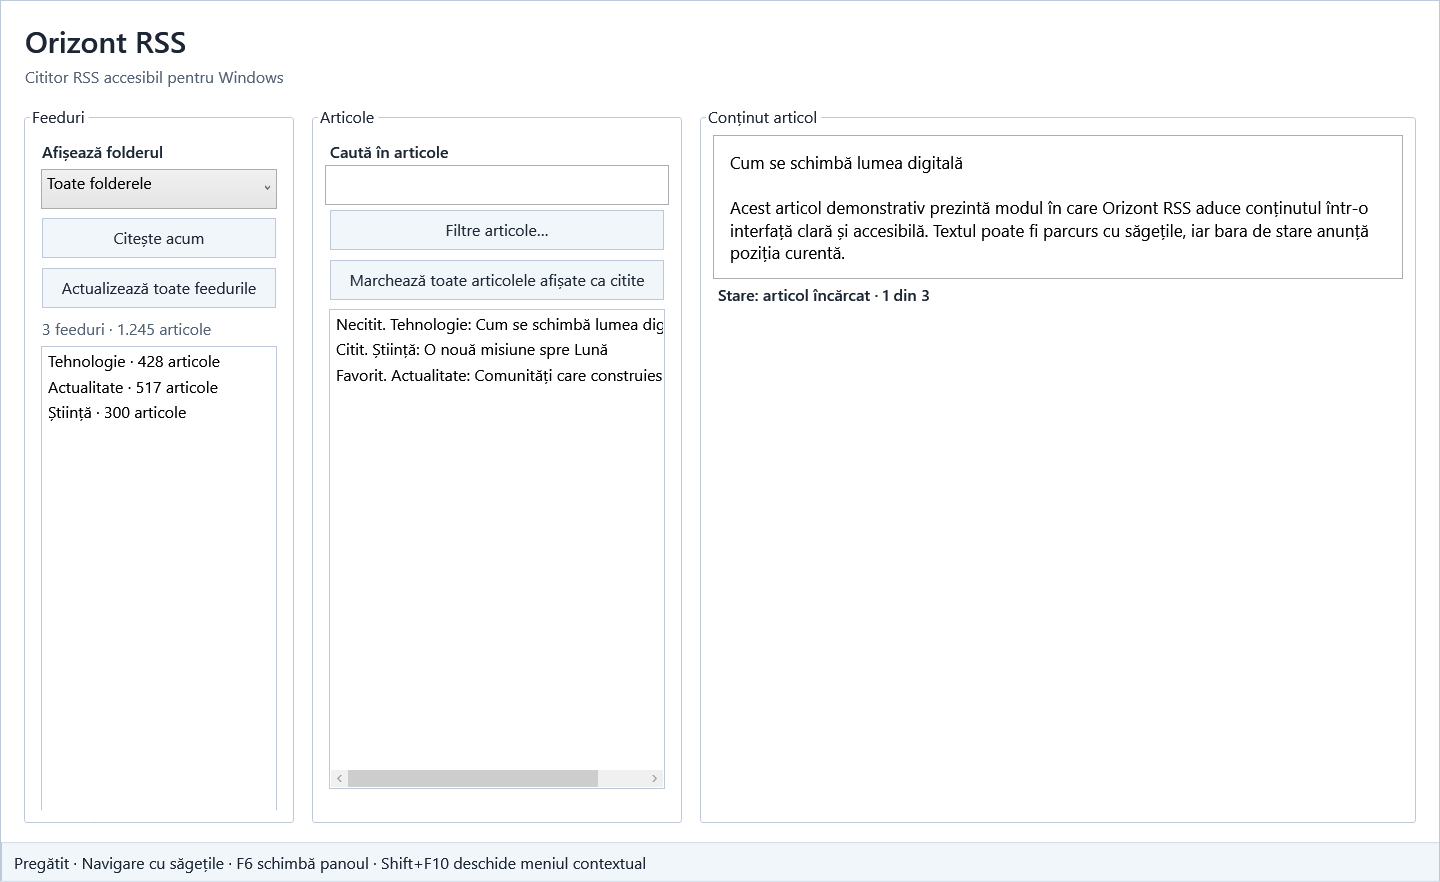
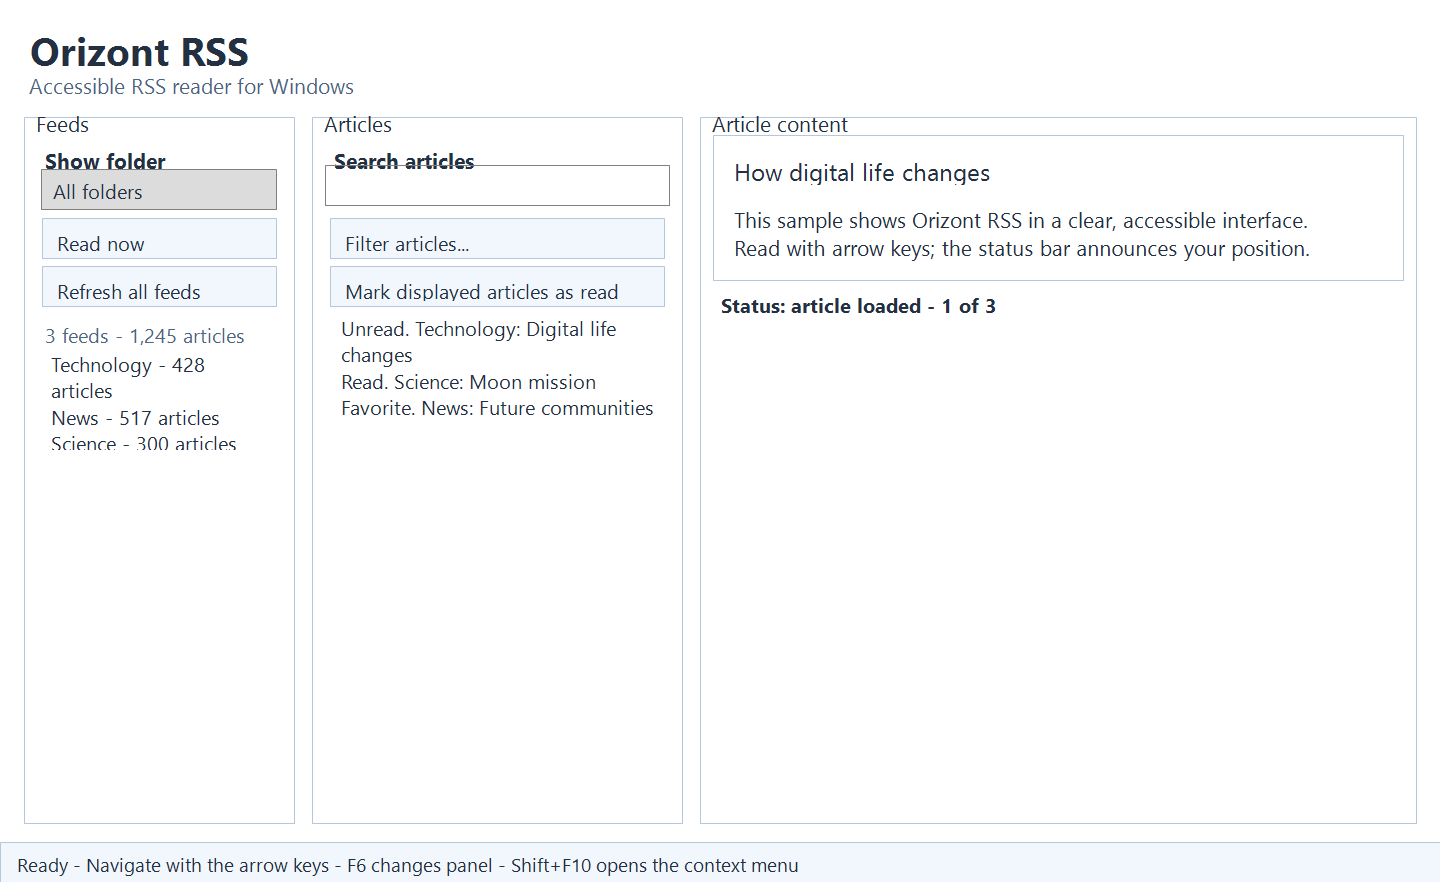
Use English promotional screenshots

diff --git a/WORKLOG.md b/WORKLOG.md
@@ -25,6 +25,14 @@ Acest jurnal păstrează trasabilitatea modificărilor efective din proiect. Se 
 - Verificări: toate cele opt pagini au câte un description, canonical, nouă hreflang, JSON-LD și opt metadate Open Graph; JSON-LD se parsează fără erori; sitemap-ul este XML valid; `git diff --check` fără erori.
 - Publicare: modificările sunt pregătite local; nu s-a făcut commit/push și nu s-a creat distribuție nouă.
 
+## 2026-09-09 — Capturi demonstrative în limba engleză
+
+- Scop: înlocuirea textului românesc din galeria publică cu o limbă internațională comună, conform aprobării utilizatorului.
+- Fișiere actualizate: `docs/assets/screenshots/main-window.png`, `reader.png`, `context-menu.png`, `settings.png`, `docs/assets/screenshots/README.md`, `docs/PROJECT-STATUS.md`, `docs/ROADMAP.md`.
+- Comportament vizual: cele patru previzualizări păstrează dimensiunea 1440×882 și structura WPF demonstrativă, dar afișează interfața, meniul contextual, cititorul și setările în engleză. Datele sunt fictive și nu includ profilul personal.
+- Verificări: imaginile au fost regenerate offline și inspectate vizual; textul românesc și caracterele afișate greșit au fost eliminate; utilitarul temporar de generare a fost șters după folosire.
+- Distribuție: nu s-a creat o distribuție nouă.
+
 ## 2026-09-08 — Commit și push GitHub pentru modificările publice
 
 - Scop: publicarea automată a modificărilor aprobate de utilizator.

diff --git a/docs/PROJECT-STATUS.md b/docs/PROJECT-STATUS.md
@@ -32,6 +32,7 @@ Acest document păstrează separat ceea ce este deja realizat, ceea ce este în 
 - Localizarea maghiară (`hu-HU`) și italiană (`it-IT`) este implementată în aplicație, instalator, ghiduri și paginile GitHub Pages; verificarea automată pentru ambele limbi a trecut.
 - Exemplele de lucru pentru feeduri sunt implementate: un feed demonstrativ local, disponibil fără internet, și un feed RSS online oficial pentru fiecare dintre cele opt limbi. Feedurile online sunt adăugate numai după verificarea faptului că răspund cu articole; feedul local este exclus din actualizările de rețea.
 - Pagina GitHub Pages are acum metadate SEO localizate pentru toate cele opt limbi: descriere, canonical, `hreflang`, Open Graph, Twitter Card și JSON-LD pentru site și aplicație. Au fost adăugate `sitemap.xml` și `robots.txt`, cu URL-uri publice absolute.
+- Galeria publică folosește acum patru previzualizări demonstrative în limba engleză, aleasă ca limbă internațională comună; textul alternativ și descrierile rămân localizate pentru fiecare pagină.
 - Feedul Bistrițeanul a fost validat prin XML-ul primit, dar prototipul Android a primit 404. Nu se mai fac încercări speculative până la o decizie nouă și o metodă de diagnostic adecvată.
 
 ## Următorii pași propuși

diff --git a/docs/assets/screenshots/README.md b/docs/assets/screenshots/README.md
@@ -9,4 +9,4 @@ Galeria publica va folosi numai capturi reale ale aplicatiei Orizont RSS, realiz
 - `context-menu.png` — un meniu contextual deschis intr-o lista de articole.
 - `settings.png` — setarile aplicatiei; campurile pentru chei trebuie sa fie goale sau mascate.
 
-Imaginile existente sunt previzualizări demonstrative generate offline, nu capturi ale profilului personal. Dacă vor fi înlocuite ulterior cu capturi reale, acestea trebuie să rămână PNG, clare și decupate la fereastra aplicației; galeria GitHub Pages folosește text alternativ și descrieri localizate în toate cele opt limbi.
+Imaginile existente sunt previzualizări demonstrative generate offline în limba engleză, nu capturi ale profilului personal. Engleza a fost aleasă ca limbă internațională comună pentru galerie; galeria GitHub Pages păstrează text alternativ și descrieri localizate în toate cele opt limbi. Dacă vor fi înlocuite ulterior cu capturi reale, acestea trebuie să rămână PNG, clare și decupate la fereastra aplicației.

diff --git a/docs/ROADMAP.md b/docs/ROADMAP.md
@@ -51,4 +51,4 @@ Aceste idei nu sunt angajamente de implementare și nu modifică funcționalitat
 
 ## Capturi pentru pagina publică
 
-Galeria de previzualizări este activă în toate cele opt pagini GitHub Pages. Cele patru imagini PNG din `docs/assets/screenshots/` sunt generate offline din componente WPF și folosesc exclusiv date demonstrative; nu conțin fluxuri personale sau chei API. Textul alternativ și descrierile sunt localizate pentru fiecare limbă.
+Galeria de previzualizări este activă în toate cele opt pagini GitHub Pages. Cele patru imagini PNG din `docs/assets/screenshots/` sunt generate offline din componente WPF, în limba engleză ca limbă internațională comună, și folosesc exclusiv date demonstrative; nu conțin fluxuri personale sau chei API. Textul alternativ și descrierile sunt localizate pentru fiecare limbă.
